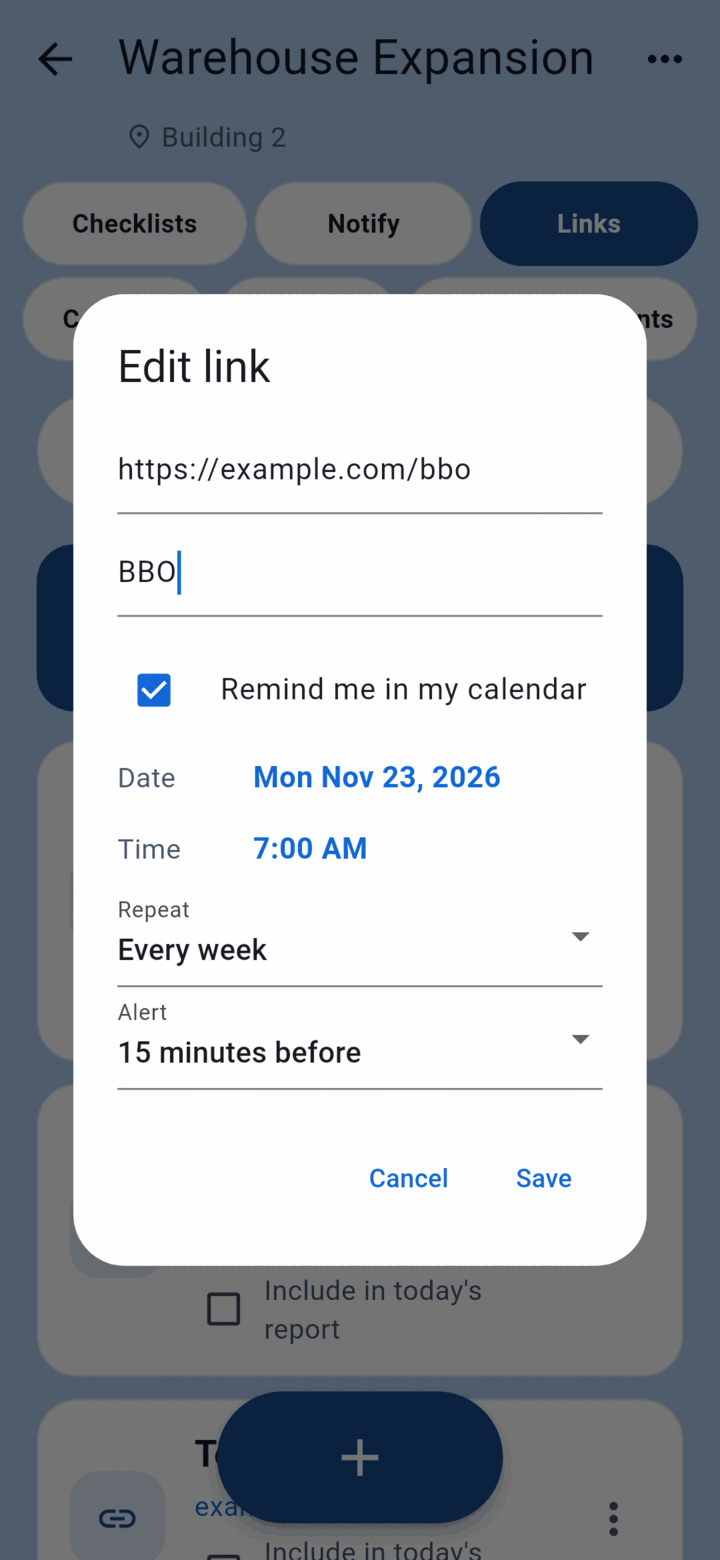
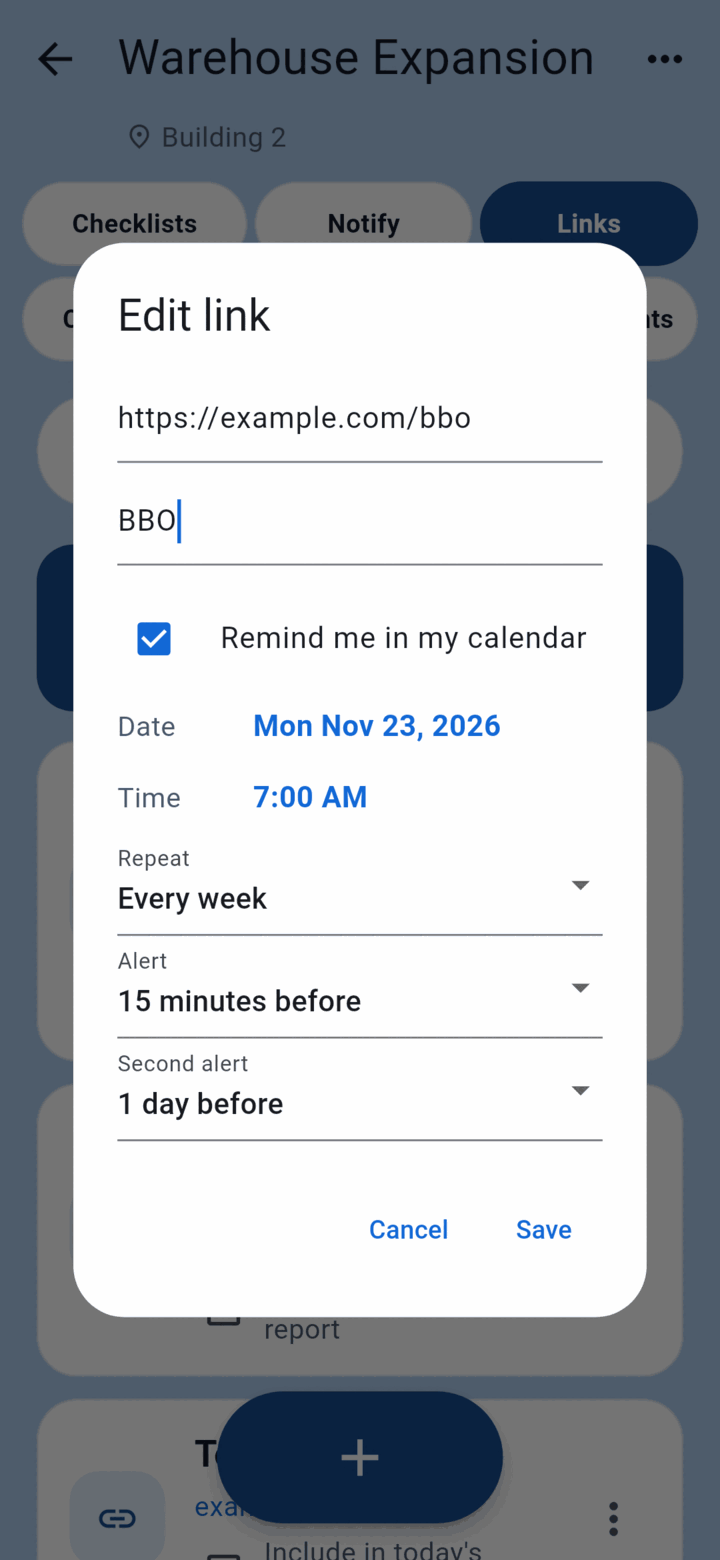
Link reminders: a second alert, and longer alert times (both apps); version 4.56
Claude-Session: https://claude.ai/code/session_01SU9pkUf5APMbUYgKfLLGdu

diff --git a/mobile/lib/data/models.dart b/mobile/lib/data/models.dart
@@ -440,18 +440,28 @@ class LinkReminder {
   };
 
   /// Minutes before the time that the phone alerts.
-  static const alerts = [0, 5, 15, 30, 60, 1440];
+  static const alerts = [0, 5, 15, 30, 60, 120, 1440, 2880, 10080];
   static String alertLabel(int m) => switch (m) {
         0 => 'At the time',
-        60 => '1 hour before',
-        1440 => '1 day before',
+        10080 => '1 week before',
+        _ when m % 1440 == 0 => m == 1440 ? '1 day before' : '${m ~/ 1440} days before',
+        _ when m % 60 == 0 => m == 60 ? '1 hour before' : '${m ~/ 60} hours before',
         _ => '$m minutes before',
       };
+
+  /// No second alert.
+  static const none = -1;
 
   /// When it (first) happens, in milliseconds.
   int start = 0;
   String repeat = once;
   int alert = 0;
+
+  /// A second alert (minutes before), or [none].
+  int alert2 = none;
+
+  /// The alerts to set in the calendar, in minutes before.
+  List<int> alertList() => [alert, if (alert2 >= 0 && alert2 != alert) alert2];
 
   /// The calendar event on this phone ('' if not saved there yet, e.g. after restoring on a new phone).
   String eventId = '';
@@ -469,12 +479,14 @@ class LinkReminder {
     };
   }
 
-  Map<String, dynamic> toJson() => {'start': start, 'repeat': repeat, 'alert': alert, 'eventId': eventId};
+  Map<String, dynamic> toJson() =>
+      {'start': start, 'repeat': repeat, 'alert': alert, 'alert2': alert2, 'eventId': eventId};
 
   static LinkReminder fromJson(Map<String, dynamic> o) => LinkReminder()
     ..start = _i(o, 'start')
     ..repeat = repeats.contains(o['repeat']) ? o['repeat'] as String : once
     ..alert = _i(o, 'alert')
+    ..alert2 = o['alert2'] is num ? (o['alert2'] as num).toInt() : none
     ..eventId = _s(o, 'eventId');
 }
 

diff --git a/mobile/android/app/src/main/kotlin/com/dailyworklog/app/CalendarReminders.kt b/mobile/android/app/src/main/kotlin/com/dailyworklog/app/CalendarReminders.kt
@@ -45,7 +45,7 @@ object CalendarReminders {
     }
 
     /** Adds or updates the event and its alert. Returns its id, or throws IllegalStateException("no_calendar"). */
-    fun save(cr: ContentResolver, eventId: String, title: String, notes: String, start: Long, repeat: String, alert: Int): String {
+    fun save(cr: ContentResolver, eventId: String, title: String, notes: String, start: Long, repeat: String, alerts: List<Int>): String {
         val rule = rrule(repeat)
         val v = ContentValues().apply {
             put(CalendarContract.Events.TITLE, title)
@@ -73,13 +73,15 @@ object CalendarReminders {
             val uri = cr.insert(CalendarContract.Events.CONTENT_URI, v) ?: throw IllegalStateException("failed")
             id = ContentUris.parseId(uri)
         }
-        // One alert: replace whatever was there.
+        // The alerts: replace whatever was there.
         cr.delete(CalendarContract.Reminders.CONTENT_URI, "${CalendarContract.Reminders.EVENT_ID} = ?", arrayOf(id.toString()))
-        cr.insert(CalendarContract.Reminders.CONTENT_URI, ContentValues().apply {
-            put(CalendarContract.Reminders.EVENT_ID, id)
-            put(CalendarContract.Reminders.MINUTES, alert)
-            put(CalendarContract.Reminders.METHOD, CalendarContract.Reminders.METHOD_ALERT)
-        })
+        for (minutes in alerts.distinct()) {
+            cr.insert(CalendarContract.Reminders.CONTENT_URI, ContentValues().apply {
+                put(CalendarContract.Reminders.EVENT_ID, id)
+                put(CalendarContract.Reminders.MINUTES, minutes)
+                put(CalendarContract.Reminders.METHOD, CalendarContract.Reminders.METHOD_ALERT)
+            })
+        }
         return id.toString()
     }
 

diff --git a/mobile/lib/screens/project_screen.dart b/mobile/lib/screens/project_screen.dart
@@ -404,6 +404,7 @@ class _ProjectScreenState extends State<ProjectScreen> {
         : DateTime.fromMillisecondsSinceEpoch(had.start);
     var repeat = had?.repeat ?? LinkReminder.weekly;
     var alert = had?.alert ?? 0;
+    var alert2 = had?.alert2 ?? LinkReminder.none;
     final ok = await showDialog<bool>(
       context: context,
       builder: (c) => StatefulBuilder(
@@ -506,6 +507,17 @@ class _ProjectScreenState extends State<ProjectScreen> {
                       ],
                       onChanged: (v) => set(() => alert = v ?? alert),
                     ),
+                    DropdownButtonFormField<int>(
+                      initialValue: LinkReminder.alerts.contains(alert2) ? alert2 : LinkReminder.none,
+                      isExpanded: true,
+                      decoration: const InputDecoration(labelText: 'Second alert'),
+                      items: [
+                        const DropdownMenuItem(value: LinkReminder.none, child: Text('None')),
+                        for (final m in LinkReminder.alerts)
+                          DropdownMenuItem(value: m, child: Text(LinkReminder.alertLabel(m))),
+                      ],
+                      onChanged: (v) => set(() => alert2 = v ?? alert2),
+                    ),
                   ],
                 ],
               ),
@@ -532,7 +544,8 @@ class _ProjectScreenState extends State<ProjectScreen> {
       l.reminder = (had ?? LinkReminder())
         ..start = when.millisecondsSinceEpoch
         ..repeat = repeat
-        ..alert = alert;
+        ..alert = alert
+        ..alert2 = alert2;
     } else {
       l.reminder = null;
     }

diff --git a/mobile/test/link_reminder_test.dart b/mobile/test/link_reminder_test.dart
@@ -32,6 +32,15 @@ void main() {
     expect((r..repeat = LinkReminder.once).describe(), 'One time, Nov 23, 2026 at 7:00 AM');
     expect(LinkReminder.alertLabel(0), 'At the time');
     expect(LinkReminder.alertLabel(60), '1 hour before');
+    expect(LinkReminder.alertLabel(120), '2 hours before');
+    expect(LinkReminder.alertLabel(2880), '2 days before');
+    expect(LinkReminder.alertLabel(10080), '1 week before');
+    // A second alert: kept, and both go to the calendar.
+    expect(r.alert2, LinkReminder.none);
+    r.alert2 = 1440;
+    expect(Link.fromJson((back..reminder = r).toJson()).reminder!.alert2, 1440);
+    expect(r.alertList(), [15, 1440]);
+    expect((r..alert2 = 15).alertList(), [15]);
   });
 
   testWidgets('Edit link: tick "Remind me in my calendar" and it goes in the calendar', (tester) async {
@@ -73,6 +82,7 @@ void main() {
     await tester.pumpAndSettle();
     expect(calls.single.method, 'save');
     expect((calls.single.arguments as Map)['repeat'], 'monthly');
+    expect((calls.single.arguments as Map)['alerts'], [0]);
     expect((calls.single.arguments as Map)['title'], 'BBO');
     expect(link.reminder!.repeat, 'monthly');
     expect(link.reminder!.eventId, 'event-7');

diff --git a/mobile/android/app/src/main/kotlin/com/dailyworklog/app/MainActivity.kt b/mobile/android/app/src/main/kotlin/com/dailyworklog/app/MainActivity.kt
@@ -94,7 +94,8 @@ class MainActivity : FlutterActivity() {
                                 call.argument<String>("notes") ?: "",
                                 (call.argument<Number>("start") ?: 0).toLong(),
                                 call.argument<String>("repeat") ?: "",
-                                (call.argument<Number>("alert") ?: 0).toInt(),
+                                call.argument<List<Number>>("alerts")?.map { it.toInt() }
+                                    ?: listOf((call.argument<Number>("alert") ?: 0).toInt()),
                             )
                             runOnUiThread { result.success(id) }
                         } catch (e: IllegalStateException) {

diff --git a/mobile/ios/Runner/AppDelegate.swift b/mobile/ios/Runner/AppDelegate.swift
@@ -90,8 +90,9 @@ enum CalendarReminders {
           }
         }()
         event.recurrenceRules = frequency.map { [EKRecurrenceRule(recurrenceWith: $0, interval: 1, end: nil)] }
-        let minutes = (args["alert"] as? NSNumber)?.doubleValue ?? 0
-        event.alarms = [EKAlarm(relativeOffset: -minutes * 60)]
+        let minutes = (args["alerts"] as? [NSNumber])?.map { $0.doubleValue }
+          ?? [(args["alert"] as? NSNumber)?.doubleValue ?? 0]
+        event.alarms = minutes.map { EKAlarm(relativeOffset: -$0 * 60) }
         do {
           try store.save(event, span: .futureEvents, commit: true)
           result(event.eventIdentifier)

diff --git a/mobile/lib/services/calendar_reminders.dart b/mobile/lib/services/calendar_reminders.dart
@@ -24,6 +24,7 @@ class CalendarReminders {
         'start': r.start,
         'repeat': r.repeat,
         'alert': r.alert,
+        'alerts': r.alertList(),
       });
       if (id == null || id.isEmpty) return "Couldn't save the reminder in your calendar.";
       r.eventId = id;

diff --git a/classic-android/app/src/main/java/com/dailyworklog/app/Models.java b/classic-android/app/src/main/java/com/dailyworklog/app/Models.java
@@ -532,16 +532,32 @@ public final class Models {
         public static final String[] REPEATS = {ONCE, DAILY, WEEKLY, MONTHLY, YEARLY};
         public static final String[] REPEAT_LABELS = {"One time only", "Every day", "Every week", "Every month", "Every year"};
         /** Minutes before the time that the phone alerts. */
-        public static final int[] ALERTS = {0, 5, 15, 30, 60, 1440};
+        public static final int[] ALERTS = {0, 5, 15, 30, 60, 120, 1440, 2880, 10080};
+        /** No second alert. */
+        public static final int NONE = -1;
 
         public static String alertLabel(int m) {
-            return m == 0 ? "At the time" : m == 60 ? "1 hour before" : m == 1440 ? "1 day before" : m + " minutes before";
+            if (m == 0) return "At the time";
+            if (m == 10080) return "1 week before";
+            if (m % 1440 == 0) return m == 1440 ? "1 day before" : (m / 1440) + " days before";
+            if (m % 60 == 0) return m == 60 ? "1 hour before" : (m / 60) + " hours before";
+            return m + " minutes before";
         }
 
         /** When it (first) happens, in milliseconds. */
         public long start;
         public String repeat = ONCE;
         public int alert;
+        /** A second alert (minutes before), or NONE. */
+        public int alert2 = NONE;
+
+        /** The alerts to set in the calendar, in minutes before. */
+        public java.util.List<Integer> alertList() {
+            java.util.List<Integer> out = new java.util.ArrayList<>();
+            out.add(alert);
+            if (alert2 >= 0 && alert2 != alert) out.add(alert2);
+            return out;
+        }
         /** The calendar event on this phone ("" if not saved there yet, e.g. after restoring on a new phone). */
         public String eventId = "";
 
@@ -564,6 +580,7 @@ public final class Models {
             o.put("start", start);
             o.put("repeat", repeat);
             o.put("alert", alert);
+            o.put("alert2", alert2);
             o.put("eventId", eventId);
             return o;
         }
@@ -574,6 +591,7 @@ public final class Models {
             String rep = o.optString("repeat", "");
             r.repeat = java.util.Arrays.asList(REPEATS).contains(rep) ? rep : ONCE;
             r.alert = o.optInt("alert", 0);
+            r.alert2 = o.optInt("alert2", NONE);
             r.eventId = o.optString("eventId", "");
             return r;
         }

diff --git a/classic-android/app/src/main/java/com/dailyworklog/app/LogsActivity.java b/classic-android/app/src/main/java/com/dailyworklog/app/LogsActivity.java
@@ -613,6 +613,17 @@ public class LogsActivity extends AppCompatActivity {
         }
         alert.setAdapter(new android.widget.ArrayAdapter<>(this, android.R.layout.simple_spinner_dropdown_item, alertLabels));
         alert.setSelection(alertAt);
+        // Second alert: "None", then the same choices.
+        android.widget.Spinner alert2 = v.findViewById(R.id.alert2);
+        String[] alert2Labels = new String[alertLabels.length + 1];
+        alert2Labels[0] = "None";
+        System.arraycopy(alertLabels, 0, alert2Labels, 1, alertLabels.length);
+        int alert2At = 0;
+        for (int i = 0; i < Models.LinkReminder.ALERTS.length; i++) {
+            if (had != null && had.alert2 == Models.LinkReminder.ALERTS[i]) alert2At = i + 1;
+        }
+        alert2.setAdapter(new android.widget.ArrayAdapter<>(this, android.R.layout.simple_spinner_dropdown_item, alert2Labels));
+        alert2.setSelection(alert2At);
         remind.setOnCheckedChangeListener((b, on) -> reminderBox.setVisibility(on ? View.VISIBLE : View.GONE));
         remind.setChecked(had != null);
         reminderBox.setVisibility(had != null ? View.VISIBLE : View.GONE);
@@ -654,6 +665,8 @@ public class LogsActivity extends AppCompatActivity {
                 r.start = when.getTimeInMillis();
                 r.repeat = Models.LinkReminder.REPEATS[Math.max(0, repeat.getSelectedItemPosition())];
                 r.alert = Models.LinkReminder.ALERTS[Math.max(0, alert.getSelectedItemPosition())];
+                int second = alert2.getSelectedItemPosition();
+                r.alert2 = second <= 0 ? Models.LinkReminder.NONE : Models.LinkReminder.ALERTS[second - 1];
                 l.reminder = r;
             } else {
                 l.reminder = null;

diff --git a/classic-android/app/src/main/java/com/dailyworklog/app/CalendarReminders.java b/classic-android/app/src/main/java/com/dailyworklog/app/CalendarReminders.java
@@ -103,13 +103,15 @@ final class CalendarReminders {
                 if (uri == null) return FAILED;
                 id = ContentUris.parseId(uri);
             }
-            // One alert: replace whatever was there.
+            // The alerts: replace whatever was there.
             cr.delete(CalendarContract.Reminders.CONTENT_URI, CalendarContract.Reminders.EVENT_ID + " = ?", new String[]{String.valueOf(id)});
-            ContentValues a = new ContentValues();
-            a.put(CalendarContract.Reminders.EVENT_ID, id);
-            a.put(CalendarContract.Reminders.MINUTES, r.alert);
-            a.put(CalendarContract.Reminders.METHOD, CalendarContract.Reminders.METHOD_ALERT);
-            cr.insert(CalendarContract.Reminders.CONTENT_URI, a);
+            for (int minutes : r.alertList()) {
+                ContentValues a = new ContentValues();
+                a.put(CalendarContract.Reminders.EVENT_ID, id);
+                a.put(CalendarContract.Reminders.MINUTES, minutes);
+                a.put(CalendarContract.Reminders.METHOD, CalendarContract.Reminders.METHOD_ALERT);
+                cr.insert(CalendarContract.Reminders.CONTENT_URI, a);
+            }
             r.eventId = String.valueOf(id);
             return null;
         } catch (SecurityException e) {

diff --git a/classic-android/tests/NoteTest.java b/classic-android/tests/NoteTest.java
@@ -1899,4 +1899,15 @@ class LinkReminderTest {
     c.set(2026, 10, 23, 19, 5); RichTest.eq(Fmt.time(c.getTimeInMillis()), "7:05 PM", "time");
     RichTest.eq(CalendarReminders.rrule("weekly") + "|" + CalendarReminders.rrule("yearly") + "|" + CalendarReminders.rrule(""), "FREQ=WEEKLY|FREQ=YEARLY|null", "rrule");
     RichTest.eq(CalendarReminders.notes(l), "Daily Work Log link: BBO\nhttps://example.com/bbo", "event notes");
+    RichTest.eq(Models.LinkReminder.alertLabel(120) + "|" + Models.LinkReminder.alertLabel(2880) + "|" + Models.LinkReminder.alertLabel(10080),
+        "2 hours before|2 days before|1 week before", "longer alerts");
+    RichTest.eq(String.valueOf(r.alert2), "-1", "no second alert");
+    r.alert2 = 1440;
+    try {
+      Models.LinkReminder back2 = Models.LinkReminder.fromJson(r.toJson());
+      RichTest.eq(String.valueOf(back2.alert2), "1440", "second alert saved");
+      RichTest.eq(back2.alertList().toString(), "[15, 1440]", "both alerts");
+      back2.alert2 = 15;
+      RichTest.eq(back2.alertList().toString(), "[15]", "same alert once");
+    } catch (Exception e) { throw new RuntimeException(e); }
     System.out.println("LINKREMINDER PASS"); } }
